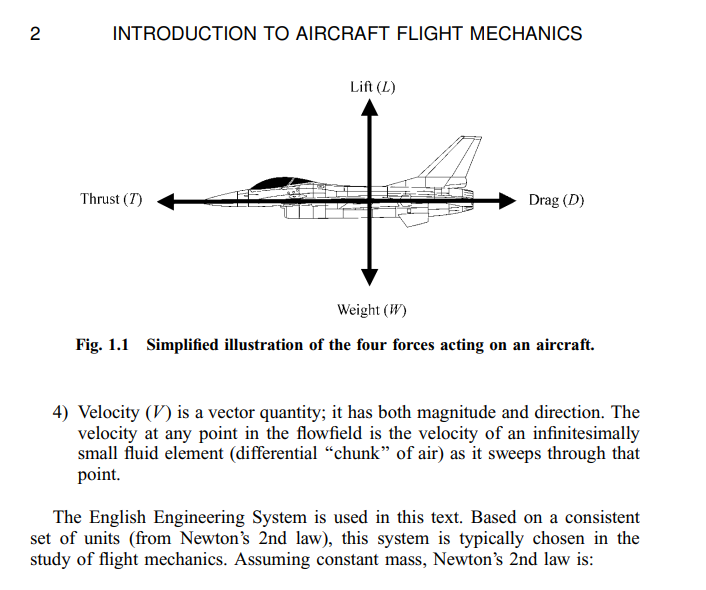
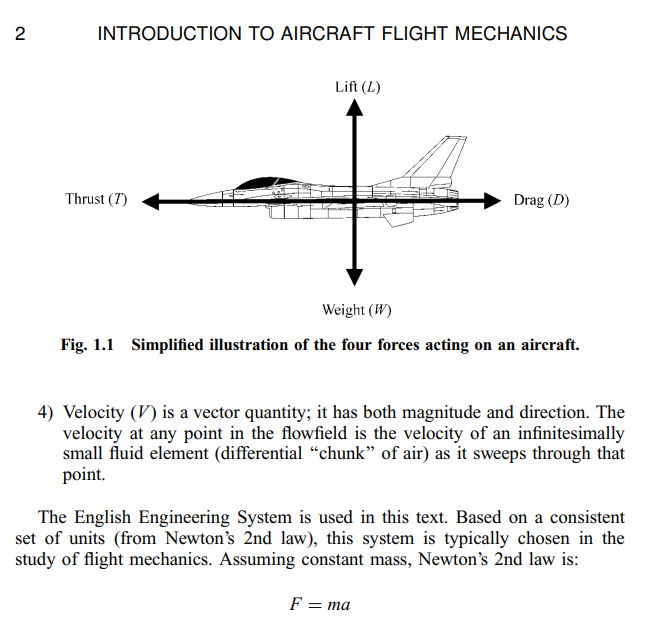
refactor: adjust image display and remove fixed aspect ratio
Replace old textbook image and update aspect ratio for natural fit

diff --git a/components/highlights-section.tsx b/components/highlights-section.tsx
@@ -41,18 +41,18 @@ function DiagonalRevealImage({
   return (
     <div
       ref={containerRef}
-      className="relative w-full aspect-[3/4] overflow-hidden rounded-xl ring-2 ring-border shadow-xl shadow-purple-500/15 cursor-ew-resize bg-background transition-all duration-300 hover:shadow-2xl hover:shadow-purple-500/25 hover:ring-primary/30"
+      className="relative w-full overflow-hidden rounded-xl ring-2 ring-border shadow-xl shadow-purple-500/15 cursor-ew-resize bg-background transition-all duration-300 hover:shadow-2xl hover:shadow-purple-500/25 hover:ring-primary/30"
       onMouseMove={handleMouseMove}
       onMouseEnter={handleMouseEnter}
       onMouseLeave={handleMouseLeave}
     >
-      {/* Before image (base layer) */}
+      {/* Before image (base layer, defines container height) */}
       <Image
         src={beforeSrc}
         alt={beforeAlt}
         width={800}
         height={1067}
-        className="absolute inset-0 w-full h-full object-contain"
+        className="w-full h-auto block"
         quality={100}
         unoptimized
       />
@@ -68,7 +68,7 @@ function DiagonalRevealImage({
           alt={afterAlt}
           width={800}
           height={1067}
-          className="w-full h-full object-contain"
+          className="w-full h-full object-cover"
           quality={100}
           unoptimized
         />
